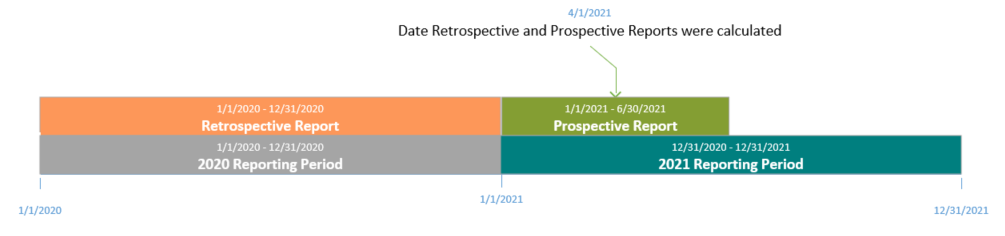
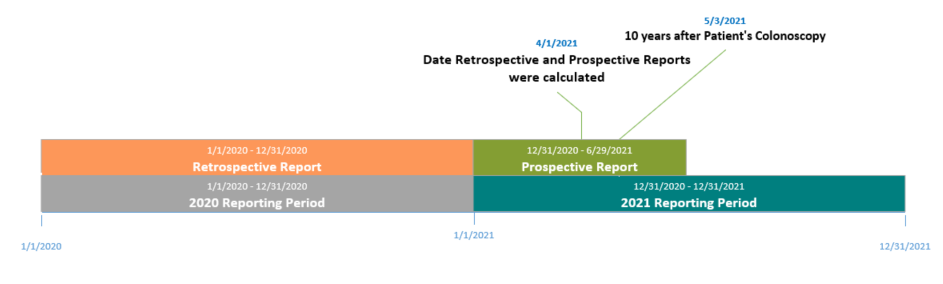
FHIR-29008 Additional updates

diff --git a/input/pagecontent/gaps-in-care-reporting.md b/input/pagecontent/gaps-in-care-reporting.md
@@ -61,6 +61,8 @@ Figure 2-14 provides a graphical view of how these resources are related. A Comp
 |**Prospective Use Case**|$care-gaps?periodStart=2021-01-01&periodEnd=2021-06-30&subject=Patient/123&measure=CMS130v8|2021-01-01|2021-06-30|2021-04-01|Example: patient had colonoscopy on 2011-05-03|Returns gaps through 2021-06-30. The gaps in care report indicates the patient has an [open gap] for the colorectal cancer screening measure. By 2021-06-30, the colonoscopy would be over 10 years.|
 |**Retrospective Use Case**|$care-gaps?periodStart=2020-01-01&periodEnd=2020-12-31&subject=Patient/123&measure=CMS130v8|2020-01-01|2020-12-31|2021-04-01|Example: patient had colonoscopy on 2011-05-03|Returns gaps through 2020-12-31. The gaps in care report indicates the patient has a [closed gap] for the colorectal cancer screening measure. Since on 2020-12-31, the procedure would have occurred within the specified 10-year timeframe.|
 
+The timeline below represents the data described above.  A colonoscopy procedure per CMS130v8 is required every 10 years.  If as in the example above, the patient had a colonoscopy done on May 3rd, 2011, another one would be due and the gap opened on May 3rd, 2021.
+
 {% include img-portrait.html img="Prospective and Retrospective Use Case.png" caption = "Figure 2-15 Prospective and Retrospective Use Case" %}
 
 We seek examples of continuous variable measure where prospective use case might be applicable.
